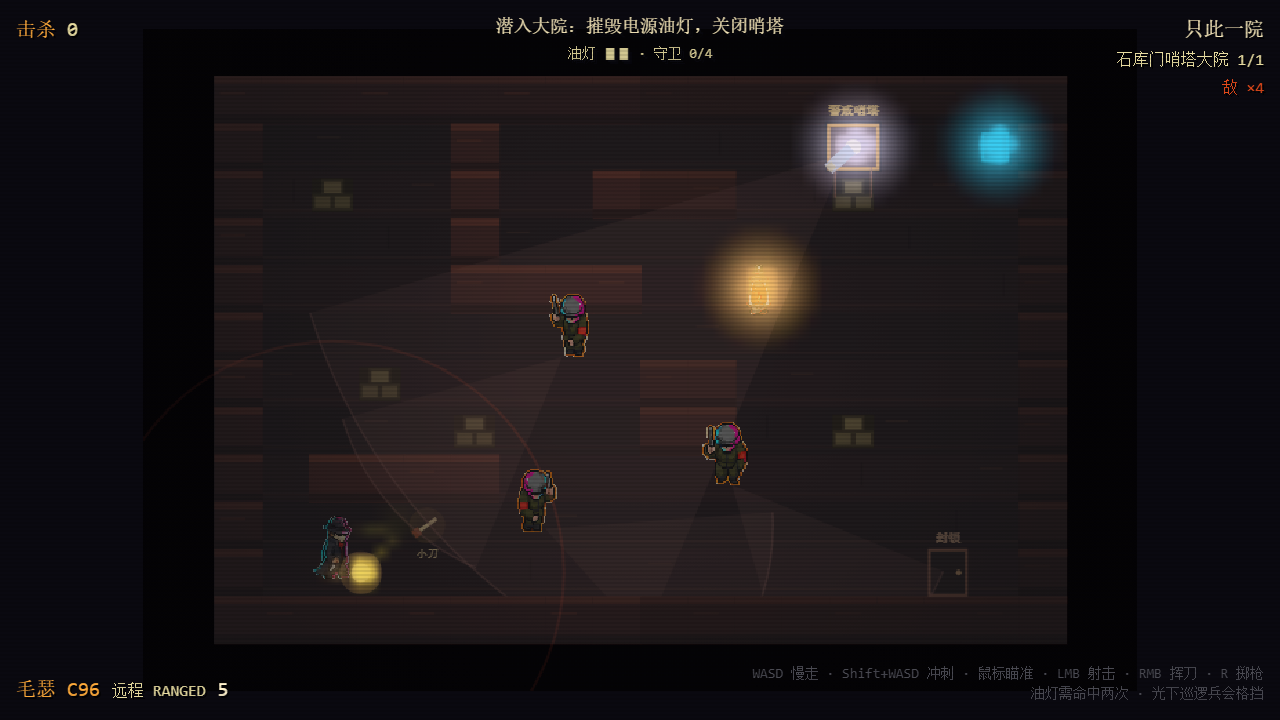
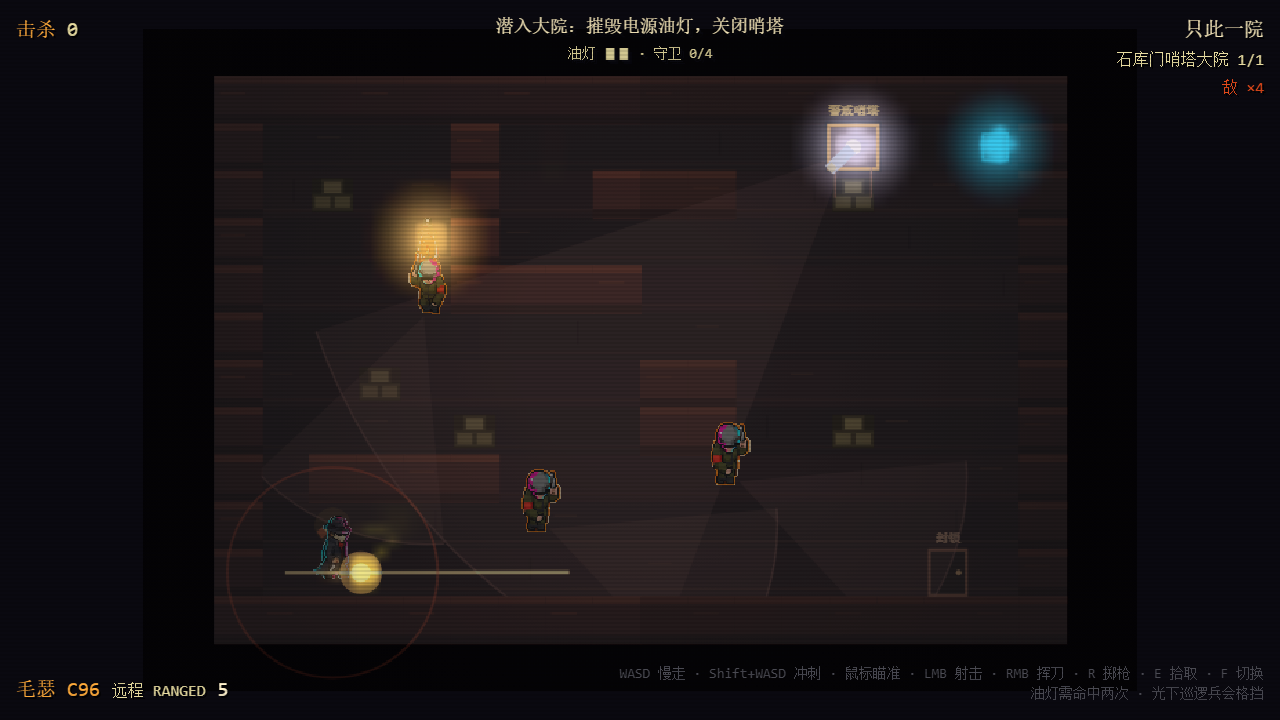
fix(hotline): B66 gameplay chain + level redesign — muzzle anchor, tracers, shot-lamp, E pickup, sheltered lamp
用户实玩反馈六个问题 + 关卡不成立,逐项实证修复:

1. 枪口闪光离枪太远:瞬时光被 visualCenter 再加 +0.5 格(17px)偏移,
   且 sim 侧锚点从瓦片原点起算。修复:sim 侧锚点 = 玩家视觉中心 + 0.6*朝向,
   scene/RC 两侧同步按原始世界坐标绘制。

2. 射击方向'不对':子弹完全没有曳光绘制,开火反馈只剩偏移的闪光。
   修复:SceneManager 新增子弹曳光(速度方向亮线)。

3+5+6 关卡几何缺陷:旧灯位 (11,4) 距塔 2 格、LOS 无遮挡、±99° 扫掠覆盖 →
   玩家接近必被发现;大半个院子受光 → 敌人全程受光护甲;子弹无对灯碰撞。
   修复:灯移 (4,3)((8,2) 墙阻断塔楼视线);近卫巡逻移 (4,4)(护甲教学对象);
   小刀移 (2,9)(出生点旁);子弹加对灯碰撞(两发拆灯,lightSmash 'weapon' 源)。

4. 捡不了刀:pickupWeapon 从未接线、E 键无绑定。修复:E = 拾取(交换语义:
   旧武器落地;模式跟随武器)+ F = 切换;snapshot 暴露剩余武器;HUD 提示更新。

self-play 3/3:真实 WASD + 真实 LMB 连射拆灯(C96 冷却间隔 620ms)→ SCORE;
E 拾取交换;潜行 bot 记录版。

验证:tsc 0 / e2e 4/4 / combat-loop PASS / light-break PASS /
rc-lab 37+37 / rc-fix 5/5 / self-play 3/3

diff --git a/7_hotlineShanghai/src/core/simulation/Simulation.ts b/7_hotlineShanghai/src/core/simulation/Simulation.ts
@@ -1,4 +1,4 @@
-import { BREAKABLE_LIGHT_HP, BULLET_HIT_RADIUS, CLATTER_NOISE_RADIUS, DETECTION_MEMORY_S, DETECTION_WARNING_S, EXIT_REACH_RADIUS, FLASHLIGHT_CONE_ARC_DEG, FLASHLIGHT_SWEEP_AMPLITUDE_DEG, FLASHLIGHT_SWEEP_HZ, FOOTSTEP_INTERVAL_S, FOOTSTEP_NOISE_RADIUS, FURNITURE_SOLID, GUNSHOT_NOISE_RADIUS, INTRO_START_AMMO, LAMP_SMASH_NOISE_RADIUS, LIGHT_POOL_DOWN_S, NOISE_RING_TTL_S, PATROL_LANE_LENGTH, PATROL_SPEED, PLAYER_MELEE_FAN_ARC_DEG, PLAYER_MELEE_DURATION, PLAYER_MELEE_POINT_BLANK, PLAYER_MELEE_RANGE, PLAYER_MELEE_TARGET_RADIUS, PLAYER_SPEED_MAX, PLAYER_WALK_SPEED, RC_MAX_ACTIVE_LIGHTS, ROOM_START_GRACE_S, SHOUT_NOISE_RADIUS, SUSPICION_DURATION_S, SUSPICION_PROMOTE_S, THROWN_HIT_RADIUS, THROWN_REST_SPEED_EPS, VISION_FAR_DISTANCE, VISION_NEAR_DISTANCE } from '../constants';
+import { BREAKABLE_LIGHT_HP, BULLET_HIT_RADIUS, CLATTER_NOISE_RADIUS, DETECTION_MEMORY_S, DETECTION_WARNING_S, EXIT_REACH_RADIUS, FLASHLIGHT_CONE_ARC_DEG, FLASHLIGHT_SWEEP_AMPLITUDE_DEG, FLASHLIGHT_SWEEP_HZ, FOOTSTEP_INTERVAL_S, FOOTSTEP_NOISE_RADIUS, FURNITURE_SOLID, GUNSHOT_NOISE_RADIUS, INTRO_START_AMMO, LAMP_BULLET_HIT_RADIUS, LAMP_SMASH_NOISE_RADIUS, LIGHT_POOL_DOWN_S, NOISE_RING_TTL_S, PATROL_LANE_LENGTH, PICKUP_RANGE, PATROL_SPEED, PLAYER_MELEE_FAN_ARC_DEG, PLAYER_MELEE_DURATION, PLAYER_MELEE_POINT_BLANK, PLAYER_MELEE_RANGE, PLAYER_MELEE_TARGET_RADIUS, PLAYER_SPEED_MAX, PLAYER_WALK_SPEED, RC_MAX_ACTIVE_LIGHTS, ROOM_START_GRACE_S, SHOUT_NOISE_RADIUS, SUSPICION_DURATION_S, SUSPICION_PROMOTE_S, THROWN_HIT_RADIUS, THROWN_REST_SPEED_EPS, VISION_FAR_DISTANCE, VISION_NEAR_DISTANCE } from '../constants';
 import { createEnemy } from '../data/enemies';
 import { RC_LIGHT_TABLE } from '../data/lights';
 import { MISSIONS } from '../data/missions';
@@ -7,9 +7,9 @@ import { tokenizeRoom } from '../world/roomTokenizer';
 import { buildTileMap, worldToTile } from '../world/tileMap';
 import { hasLineOfSight } from '../world/lineOfSight';
 import { damageEnemy, lightSmash } from './damage';
-import { playerAttack, throwCurrentWeapon, updateThrownWeapons } from './weapons';
+import { playerAttack, throwCurrentWeapon, updateThrownWeapons, pickupWeapon } from './weapons';
 import { GamePhase as GP } from '../types';
-import type { ActiveRcLight, Enemy, EnemySpawn, GamePhase, ISimulation, LightSource, NoiseKind, NoiseStimulus, Player, PlayerInput, RoomLayout, SimEvent, SimSnapshot, ThrownWeapon, Vec2 } from '../types';
+import type { ActiveRcLight, Enemy, EnemySpawn, GamePhase, ISimulation, LightSource, NoiseKind, NoiseStimulus, Player, PlayerInput, RoomLayout, SimEvent, SimSnapshot, ThrownWeapon, Vec2, WeaponId } from '../types';
 
 const mission = MISSIONS[0];
 
@@ -88,6 +88,8 @@ export class Simulation implements ISimulation {
   private clatteredThrown = new Set<string>(); // 已播过一次落地声的投掷物(墙停 / 静止各只响一次)
   private footstepTimer = 0;                   // S3:冲刺脚步噪音节流(FOOTSTEP_INTERVAL_S)
 
+  private pickedSpawnKeys = new Set<string>(); // B66:已拾取的武器出生点(键 = tile)
+  private droppedWeapons: { tile: Vec2; weaponId: WeaponId }[] = []; // B66:拾取交换时掉落的旧武器
   private createRoomEnemy(spawn: EnemySpawn, index: number): Enemy {
     const foe = createEnemy(spawn.archetype ?? 'flashlight_patrol', `patrol_${index + 1}`, spawn.position);
     foe.role = spawn.role ?? 'ground_patrol';
@@ -202,6 +204,7 @@ export class Simulation implements ISimulation {
     this.warningEnemyId = null;
     this.detectionMemory = 0;
     this.playerFireCooldown = 0; this.bullets = []; this.thrownWeapons = []; this.noises = []; this.clatteredThrown.clear(); this.footstepTimer = 0;
+    this.pickedSpawnKeys = new Set(); this.droppedWeapons = [];
     this.emit({ kind: 'roomEnter', roomId: this.room.id });
   }
 
@@ -254,6 +257,22 @@ export class Simulation implements ISimulation {
             this.emit({ kind: 'enemyKilled', enemyId: foe.id, position: { ...foe.position } });
           }
           dead = true; break;
+        }
+        // B66:子弹打灯——连射拆灯是最自然的直觉路径;命中按近战同伤害(1 击/颗)
+        if (!dead) {
+          const lamp = this.lightSources[0];
+          if (lamp.state !== 'dead') {
+            const lampDist = distanceBetween({ x: px, y: py }, lamp.position);
+            if (lampDist <= LAMP_BULLET_HIT_RADIUS) {
+              b.position = { x: px, y: py };
+              const result = lightSmash(lamp, lampDist, 'weapon');
+              if (result.hit) {
+                this.emit({ kind: 'lightSmash', lightId: lamp.id, position: { ...lamp.position }, hp: result.hp, state: result.state, cause: 'weapon' });
+                this.emitNoise('lamp_smash', lamp.position, LAMP_SMASH_NOISE_RADIUS);
+                dead = true;
+              }
+            }
+          }
         }
       }
       if (dead) this.bullets.splice(i, 1);
@@ -437,6 +456,53 @@ export class Simulation implements ISimulation {
     if (action.kind === 'attackStart' && this.phase === GP.MISSION_PLAY) this.attack();
     if (action.kind === 'fireStart' && this.phase === GP.MISSION_PLAY) this.fire();
     if (action.kind === 'throwStart' && this.phase === GP.MISSION_PLAY) this.throwWeapon();
+    if (action.kind === 'interactStart' && this.phase === GP.MISSION_PLAY) this.tryPickup();
+    if (action.kind === 'toggleMode' && this.phase === GP.MISSION_PLAY) this.togglePlayerMode();
+  }
+
+  // B66:E 拾取——修复"捡不了刀":交换语义(捡起地上武器,当前武器掉落在原地),
+  // Hotline Miami 式的即捡即换。范围内取最近者。
+  private tryPickup(): void {
+    const p = this.player;
+    const tileOf = (t: Vec2): Vec2 => ({ x: t.x + 0.5, y: t.y + 0.5 });
+    const candidates: { source: 'spawn' | 'drop'; tile: Vec2; weaponId: WeaponId; dist: number }[] = [];
+    for (const spawn of this.room.weaponSpawns) {
+      const key = `${spawn.tile.x},${spawn.tile.y}`;
+      if (this.pickedSpawnKeys.has(key)) continue;
+      const dist = distanceBetween(p.position, tileOf(spawn.tile));
+      if (dist <= PICKUP_RANGE) candidates.push({ source: 'spawn', tile: spawn.tile, weaponId: spawn.weaponId, dist });
+    }
+    for (const drop of this.droppedWeapons) {
+      const dist = distanceBetween(p.position, tileOf(drop.tile));
+      if (dist <= PICKUP_RANGE) candidates.push({ source: 'drop', tile: drop.tile, weaponId: drop.weaponId, dist });
+    }
+    candidates.sort((a, b) => a.dist - b.dist);
+    const pick = candidates[0];
+    if (pick === undefined) return;
+    // 从来源移除
+    if (pick.source === 'spawn') {
+      this.pickedSpawnKeys.add(`${pick.tile.x},${pick.tile.y}`);
+    } else {
+      const idx = this.droppedWeapons.findIndex((d) => d.tile.x === pick.tile.x && d.tile.y === pick.tile.y && d.weaponId === pick.weaponId);
+      if (idx >= 0) this.droppedWeapons.splice(idx, 1);
+    }
+    // 交换:旧武器掉落在拾取点
+    if (p.weapon !== null && p.weapon !== pick.weaponId) {
+      this.droppedWeapons.push({ tile: pick.tile, weaponId: p.weapon });
+    }
+    pickupWeapon(p, pick.weaponId);
+    // 拾取后模式跟随武器类型(小刀→近战,枪械→远程)
+    p.mode = WEAPON_TABLE[pick.weaponId].type === 'ranged' ? 'ranged' : 'melee';
+    this.emit({ kind: 'weaponPicked', weaponId: pick.weaponId });
+    this.emitNoise('clatter', tileOf(pick.tile), CLATTER_NOISE_RADIUS);
+  }
+
+  // B66:F 切换近战/远程(v2 设计里存在但从未接线)
+  private togglePlayerMode(): void {
+    const p = this.player;
+    if (p.weapon === null || WEAPON_TABLE[p.weapon].type !== 'ranged') return;
+    p.mode = p.mode === 'ranged' ? 'melee' : 'ranged';
+    this.emit({ kind: 'modeSwitch', to: p.mode });
   }
 
   snapshot(): SimSnapshot {
@@ -447,6 +513,13 @@ export class Simulation implements ISimulation {
       melee: this.melee.map((s) => ({ ...s, position: { ...s.position } })), grenades: [],
       thrownWeapons: this.thrownWeapons.map((t) => ({ ...t, position: { ...t.position }, velocity: { ...t.velocity } })),
       noises: this.noises.map((n) => ({ ...n, position: { ...n.position } })),
+      // B66:剩余可拾取武器(出生点 - 已拾取 + 交换掉落),HUD 提示用
+      weaponSpawns: [
+        ...this.room.weaponSpawns
+          .filter((spawn) => !this.pickedSpawnKeys.has(`${spawn.tile.x},${spawn.tile.y}`))
+          .map((spawn) => ({ tile: { ...spawn.tile }, weaponId: spawn.weaponId })),
+        ...this.droppedWeapons.map((drop) => ({ tile: { ...drop.tile }, weaponId: drop.weaponId })),
+      ],
       activeLights: this.activeLights.map((l) => ({ ...l, position: { ...l.position } })),
       lightSources: this.lightSources.map((l) => ({ ...l, position: { ...l.position } })),
       currentRoom: this.phase === GP.TITLE ? null : this.room, currentMission: this.phase === GP.TITLE ? null : mission,
@@ -517,7 +590,12 @@ export class Simulation implements ISimulation {
       const spec = RC_LIGHT_TABLE.muzzle_flash;
       const light: ActiveRcLight = {
         id: `muzzle_${(this.noiseSeq += 1)}`, kind: spec.kind,
-        position: { x: p.position.x + Math.cos(p.facingAngle) * 0.6, y: p.position.y + Math.sin(p.facingAngle) * 0.6 },
+        // B66:枪口锚点 = 玩家视觉中心(position+0.5)+ 0.6*朝向——旧代码从瓦片原点
+        // 起算,枪口闪光整体偏上左 0.5 格(17px),呈现"闪光离枪太远"
+        position: {
+          x: p.position.x + 0.5 + Math.cos(p.facingAngle) * 0.6,
+          y: p.position.y + 0.5 + Math.sin(p.facingAngle) * 0.6,
+        },
         colorRgb: hexToRgb(spec.colorHex), intensity: spec.intensity, radius: spec.radius, ttl: 0.08,
       };
       this.activeLights.push(light);

diff --git a/7_hotlineShanghai/scripts/self-play.spec.js b/7_hotlineShanghai/scripts/self-play.spec.js
@@ -205,7 +205,8 @@ async function regionLuma(page, cx, cy, radius) {
   }, { cx, cy, radius });
 }
 
-const LAMP_WORLD = { x: 11, y: 4 };
+const LAMP_WORLD = { x: 4, y: 3 };
+const KNIFE_WORLD = { x: 2, y: 9 };
 const EXIT_WORLD = { x: 15, y: 10 };
 
 /** ambush kill: stand 1u beside a patrol lane (90deg off its cone), melee as it passes */
@@ -241,29 +242,35 @@ async function playInputChain(page, attempt) {
     const sim = window.__sim;
     for (const enemy of sim.enemies) enemy.hp = 0;
   });
-  const lampBefore = await regionLuma(page, 445, 188, 18);
+  const lampBefore = await regionLuma(page, 205, 154, 18);
   await page.screenshot({ path: `${output}/self-play-input-${attempt}-start.png` });
   log.push(`lampLumaBefore=${Math.round(lampBefore)}`);
 
+  // 西墙走廊北上 → 灯区西侧(塔楼 LOS 被 (8,2) 墙阻断;射击点选 (1,3),避开
+  // (4,4) 巡逻灯锥——B66 子弹拆灯 = 可从掩体后方开火)
   const waypoints = [
-    { x: 12, y: 10, note: 'WASD bottom corridor east' },
-    { x: 12, y: 5, note: 'WASD up column x12' },
-    { x: 11, y: 5, note: 'WASD to lamp south' },
+    { x: 1, y: 9, note: 'WASD west column (skip knife pickup)' },
+    { x: 1, y: 3, note: 'WASD north to shooting spot' },
   ];
   for (const wp of waypoints) {
     const ok = await moveTo(page, wp.x, wp.y, 45000, wp.note);
     log.push(`wp(${wp.x},${wp.y}) ${ok ? 'OK' : 'FAIL'} ${wp.note}`);
     if (!ok) return { log, ok: false };
   }
+  // B66:LMB 射击拆灯(新机制:子弹可伤灯,连射两发 = 灯碎)——真实鼠标瞄准 + 点击
   await aimAt(page, LAMP_WORLD.x, LAMP_WORLD.y);
-  await rmb(page);
-  await page.waitForTimeout(450);
-  await rmb(page);
+  await page.mouse.down({ button: 'left' });
+  await page.waitForTimeout(60);
+  await page.mouse.up({ button: 'left' });
+  await page.waitForTimeout(620); // C96 fireRate 2/s → 冷却 0.5s
+  await page.mouse.down({ button: 'left' });
+  await page.waitForTimeout(60);
+  await page.mouse.up({ button: 'left' });
   await page.waitForTimeout(500);
   const s2 = await snapshot(page);
   log.push(`afterRMBx2 lampsDestroyed=${s2.lampsDestroyed} objective=${s2.objective} exitActive=${s2.exitActive}`);
-  if (s2.lampsDestroyed < 1) return { log, ok: false, reason: 'lamp not broken by real RMB' };
-  const lampAfter = await regionLuma(page, 445, 188, 18);
+  if (s2.lampsDestroyed < 1) return { log, ok: false, reason: 'lamp not broken by real LMB shots' };
+  const lampAfter = await regionLuma(page, 205, 154, 18);
   log.push(`lampLumaAfter=${Math.round(lampAfter)} (before ${Math.round(lampBefore)})`);
   await page.screenshot({ path: `${output}/self-play-input-${attempt}-lamp-broken.png` });
 
@@ -329,6 +336,30 @@ test('self-play input chain: real keyboard/mouse to lamp break to exit', async (
   const result = await playInputChain(page, 1);
   console.log('SELF_PLAY_INPUT', JSON.stringify(result));
   expect(result.ok, `input chain failed: ${result.log.join(' | ')}`).toBe(true);
+  assertNoConsoleErrors();
+});
+
+test('self-play pickup: E key swaps the knife at spawn (B66)', async ({ page }) => {
+  test.setTimeout(120_000);
+  const assertNoConsoleErrors = rejectConsoleErrors(page);
+  await page.goto('/');
+  await page.locator('button').first().click();
+  await page.waitForFunction(() => window.__sim?.snapshot().phase === 'MISSION_PLAY');
+  await page.waitForTimeout(800);
+  const ok = await moveTo(page, KNIFE_WORLD.x, KNIFE_WORLD.y, 20000, 'walk to knife');
+  expect(ok).toBe(true);
+  await page.keyboard.press('KeyE');
+  await page.waitForTimeout(500);
+  const picked = await page.evaluate(() => ({
+    weapon: window.__sim.snapshot().player.weapon,
+    mode: window.__sim.snapshot().player.mode,
+    spawns: window.__sim.snapshot().weaponSpawns,
+  }));
+  console.log('SELF_PLAY_PICKUP', JSON.stringify(picked));
+  expect(picked.weapon).toBe('knife');
+  expect(picked.mode).toBe('melee');
+  // 交换:旧武器 C96 掉落在原地
+  expect(picked.spawns.some((s) => s.weaponId === 'mauser_c96' && s.tile.x === KNIFE_WORLD.x && s.tile.y === KNIFE_WORLD.y)).toBe(true);
   assertNoConsoleErrors();
 });
 

diff --git a/7_hotlineShanghai/src/engine/SceneManager.ts b/7_hotlineShanghai/src/engine/SceneManager.ts
@@ -108,7 +108,7 @@ export class SceneManager {
       // v3.2:删除手绘光圈/霓虹光晕盒——RC 已提供真实光池,几何描边在合成后读作"悬浮光环/光盒"伪影
       if (distanceBetween(s.player.position, lamp.position) <= PLAYER_MELEE_RANGE + PLAYER_MELEE_TARGET_RADIUS + 0.05 && lamp.state !== 'dead') {
         c.fillStyle = '#ffd06a'; c.font = `${Math.max(9, scale * .18)}px monospace`; c.textAlign = 'center';
-        c.fillText(lamp.state === 'damaged' ? '再击一次 · RMB' : '已进入攻击范围 · RMB ×2', lampVisual.x * scale, lampVisual.y * scale - scale * .7);
+        c.fillText(lamp.state === 'damaged' ? '再击一次 · LMB/RMB' : '已进入攻击范围 · LMB/RMB ×2', lampVisual.x * scale, lampVisual.y * scale - scale * .7);
       }
       if (!this.sprites.drawLamp(c, lampVisual.x * scale, lampVisual.y * scale, lamp.state, scale * 1.25)) this.drawLamp(c, lampVisual, lamp.state, scale * 1.25);
     }
@@ -148,7 +148,8 @@ export class SceneManager {
     // v3.7: 枪口 2D 闪光
     const muzzleLights = s.activeLights.filter((light) => light.kind === 'muzzle_flash' && light.ttl !== Infinity && light.ttl > 0);
     if (muzzleLights.length > 0) {
-      const mz = visualCenter(muzzleLights[0].position);
+      // B66:枪口闪光 position 已含视觉中心锚点(sim 侧 +0.5),这里不再 visualCenter
+      const mz = muzzleLights[0].position;
       const intensity = Math.min(1, muzzleLights[0].ttl / 0.08);
       c.save();
       c.translate(mz.x * scale, mz.y * scale);
@@ -157,6 +158,24 @@ export class SceneManager {
       c.beginPath(); c.arc(0, 0, scale * 0.45, 0, Math.PI * 2); c.fill();
       c.fillStyle = `rgba(255,240,180,${(0.75 * intensity).toFixed(3)})`;
       c.beginPath(); c.arc(0, 0, scale * 0.2, 0, Math.PI * 2); c.fill();
+      c.restore();
+    }
+    // B66:子弹曳光——旧版无任何子弹绘制,开火反馈只有枪口闪光,玩家无法判断
+    // 弹道("射击方向不对"的视觉主因)。短亮线沿速度方向,RC 合成前画在 base 层。
+    for (const b of s.bullets) {
+      const speed = Math.max(1, Math.hypot(b.velocity.x, b.velocity.y));
+      const nx = b.velocity.x / speed;
+      const ny = b.velocity.y / speed;
+      const len = Math.max(6, speed * 0.03);
+      const bv = visualCenter(b.position);
+      c.save();
+      c.globalCompositeOperation = 'lighter';
+      c.strokeStyle = 'rgba(255,220,140,.9)';
+      c.lineWidth = 2.5;
+      c.beginPath();
+      c.moveTo((bv.x - nx * len) * scale, (bv.y - ny * len) * scale);
+      c.lineTo(bv.x * scale, bv.y * scale);
+      c.stroke();
       c.restore();
     }
     // 挥击扇形提示(v3.2):ttl 内按扇形角/有效触及画渐隐楔形,让"扇形近战"可见

diff --git a/7_hotlineShanghai/src/core/data/missions.ts b/7_hotlineShanghai/src/core/data/missions.ts
@@ -23,8 +23,8 @@ export const MISSIONS: Mission[] = [{
       '##################',
       '#....#.......S..N#',
       '#.X..#..###..X...#',
-      '#....#...........#',
-      '#....####..L.....#',
+      '#...L#...........#',
+      '#....####........#',
       '#................#',
       '#..X.....##......#',
       '#....X...##..X...#',
@@ -36,11 +36,11 @@ export const MISSIONS: Mission[] = [{
     playerSpawn: { x: 2, y: 10 },
     enemySpawns: [
       { position: { x: 6, y: 9 }, role: 'ground_patrol', patrolAxis: 'horizontal', patrolLength: 3, facingAngle: 0 },
-      { position: { x: 7, y: 5 }, role: 'ground_patrol', patrolAxis: 'vertical', patrolLength: 3, facingAngle: -Math.PI / 2 },
+      { position: { x: 4, y: 4 }, role: 'ground_patrol', patrolAxis: 'vertical', patrolLength: 3, facingAngle: -Math.PI / 2 },
       { position: { x: 10, y: 8 }, role: 'ground_patrol', patrolAxis: 'horizontal', patrolLength: 4, facingAngle: Math.PI },
       { position: { x: 13, y: 1 }, role: 'tower_guard', patrolAxis: 'static', patrolLength: 0, facingAngle: Math.PI / 2 },
     ],
-    weaponSpawns: [{ tile: { x: 4, y: 9 }, weaponId: 'knife' }],
+    weaponSpawns: [{ tile: { x: 2, y: 9 }, weaponId: 'knife' }],
     maskSpawns: [],
     exitTile: { x: 15, y: 10 },
     floorPalette: ['#3a1410', '#050408'],

diff --git a/7_hotlineShanghai/src/core/simulation/damage.ts b/7_hotlineShanghai/src/core/simulation/damage.ts
@@ -37,11 +37,13 @@ export interface LightSmashResult {
   state: LightSourceState;
 }
 
-export function lightSmash(target: LightSource, aimDist: number, cause: 'melee' | 'throw'): LightSmashResult {
+export function lightSmash(target: LightSource, aimDist: number, cause: 'melee' | 'throw' | 'weapon'): LightSmashResult {
   if (!target.breakable || target.state === 'dead' || aimDist > LMB_LIGHT_PRIORITY_RANGE) {
     return { hit: false, destroyed: false, hp: target.hp, state: target.state };
   }
-  const damage = cause === 'melee' ? BREAKABLE_LIGHT_DAMAGE_MELEE : BREAKABLE_LIGHT_DAMAGE_THROW;
+  // B66:'weapon'(子弹)伤害与近战一致(1 击)——射击拆灯 = 玩家最自然的直觉路径,
+  // 旧版只有近战/投掷能伤灯,玩家对灯连射无反馈
+  const damage = cause === 'melee' || cause === 'weapon' ? BREAKABLE_LIGHT_DAMAGE_MELEE : BREAKABLE_LIGHT_DAMAGE_THROW;
   target.hp = Math.max(0, target.hp - damage);
   target.state = target.hp === 0 ? 'dead' : target.hp === 1 ? 'damaged' : 'intact';
   return { hit: true, destroyed: target.hp === 0, hp: target.hp, state: target.state };

diff --git a/7_hotlineShanghai/src/engine/RcPresenter.ts b/7_hotlineShanghai/src/engine/RcPresenter.ts
@@ -212,7 +212,11 @@ export class RcPresenter {
         const r = Math.min(255, Math.round(parseInt(hex.slice(0, 2), 16) * gain));
         const g = Math.min(255, Math.round(parseInt(hex.slice(2, 4), 16) * gain));
         const b = Math.min(255, Math.round(parseInt(hex.slice(4, 6), 16) * gain));
-        const lightVisual = visualCenter(light.position);
+        const lightVisual = light.position;
+        // B66:v3.11 曾用 visualCenter(light.position) 给瞬时光加 +0.5 格锚点偏移,
+        // 但 activeLights 的 position 是世界坐标(玩家 + 0.6*朝向),再加 +0.5 会让
+        // 枪口闪光整体右移 17px(用户反馈"枪口闪光离枪太远/方向不对")。
+        // 静态灯走 lightSources 分支(瓦片坐标,保留 +0.5),瞬时光用原始世界坐标。
         // 枪口/爆炸这类瞬时光只做紧凑种子,RC 传播会负责扩散;
         // v3.10:软边盘(0.45 格),瞬时光斑无硬缘
         const radius = Math.max(3, scale * 0.45);

diff --git a/7_hotlineShanghai/src/core/types.ts b/7_hotlineShanghai/src/core/types.ts
@@ -304,7 +304,7 @@ export type SimEvent =
   | { kind: 'enemyAttack'; enemyId: string; position: Vec2 }
   | { kind: 'rcLightSpawned'; light: ActiveRcLight }
   | { kind: 'rcLightExpired'; lightId: string }
-  | { kind: 'lightSmash'; lightId: string; position: Vec2; hp: number; state: LightSourceState; cause: 'melee' | 'throw' }
+  | { kind: 'lightSmash'; lightId: string; position: Vec2; hp: number; state: LightSourceState; cause: 'melee' | 'throw' | 'weapon' }
   | { kind: 'invalidateLight'; lightId: string; position: Vec2 }
   | { kind: 'roomEnter'; roomId: string }
   | { kind: 'roomClear'; roomId: string }
@@ -387,5 +387,6 @@ export interface SimSnapshot {
   exitActive: boolean;
   awareness: 'none' | 'suspicious' | 'detected';
   lastSuspiciousPosition: Vec2 | null;
+  weaponSpawns: { tile: Vec2; weaponId: WeaponId }[];  // B66:剩余可拾取武器(HUD 提示)
   lights: Record<RcLightKind, RcLightSpec>;
 }

diff --git a/7_hotlineShanghai/src/core/constants.ts b/7_hotlineShanghai/src/core/constants.ts
@@ -92,6 +92,8 @@ export const FOOTSTEP_NOISE_RADIUS = 4;         // 冲刺脚步(= ENEMY_HEAR_DIS
 export const FOOTSTEP_INTERVAL_S = 0.25;        // 脚步刺激节流(否则 60 环/秒)
 export const NOISE_RING_TTL_S = 0.3;            // 扩散环可视化寿命
 export const BULLET_HIT_RADIUS = 0.35;          // 子弹↔敌人命中半径
+export const LAMP_BULLET_HIT_RADIUS = 0.75;      // B66:子弹命中油灯半径(灯体 ~0.35u + 弹径)
+export const PICKUP_RANGE = 1.2;                 // B66:E 拾取/交互距离(世界单位)
 export const THROWN_HIT_RADIUS = 0.35;          // 投掷物↔敌人命中半径
 export const THROWN_REST_SPEED_EPS = 0.5;       // 投掷物静止判定(触发落地声)
 export const DETECTION_MEMORY_S = 0.25;

diff --git a/7_hotlineShanghai/src/engine/InputManager.ts b/7_hotlineShanghai/src/engine/InputManager.ts
@@ -26,8 +26,11 @@ export class InputManager {
   }
   private onDown = (e: KeyboardEvent): void => {
     this.keys.add(e.code);
-    // v3.6:R = 掷出当前武器(一次性,屏蔽长按 repeat 连掷)
+    // v3.6:R = 掷出当前武器(一次性;屏蔽长按 repeat 连掷)
     if (e.code === 'KeyR' && !e.repeat) this.send({ kind: 'throwStart' });
+    // B66:E = 拾取/交互(与 R 掷出分离,修复"捡不了刀");F = 切换近战/远程
+    if (e.code === 'KeyE' && !e.repeat) this.send({ kind: 'interactStart' });
+    if (e.code === 'KeyF' && !e.repeat) this.send({ kind: 'toggleMode' });
   };
   private onUp = (e: KeyboardEvent): void => { this.keys.delete(e.code); };
   private onMove = (e: MouseEvent): void => {

diff --git a/7_hotlineShanghai/src/components/HUD.tsx b/7_hotlineShanghai/src/components/HUD.tsx
@@ -78,7 +78,7 @@ export function HUD(): React.JSX.Element {
       </div>
       {/* 右下:操作提示 */}
       <div className="absolute bottom-3 right-3 max-w-[58vw] text-right text-[10px] leading-4 text-shanghai-steel sm:bottom-4 sm:right-4 sm:max-w-none sm:text-sm sm:leading-5">
-        WASD 慢走 · Shift+WASD 冲刺 · 鼠标瞄准 · LMB 射击 · RMB 挥刀 · R 掷枪
+        WASD 慢走 · Shift+WASD 冲刺 · 鼠标瞄准 · LMB 射击 · RMB 挥刀 · R 掷枪 · E 拾取 · F 切换
         <br />
          {exitActive ? '出口已开启 · 走到绿色门标记' : '油灯需命中两次 · 光下巡逻兵会格挡'}
       </div>

diff --git a/7_hotlineShanghai/BUGS.md b/7_hotlineShanghai/BUGS.md
@@ -78,6 +78,7 @@
 | B62 | TEST | engine/input | doc-25 §8 长期欠账"真键鼠 E2E gate":旧 e2e 用 sim 位置注入绕过真实输入路径 | 对照 doc-25 §8 | FIXED(2026-08-13:`scripts/self-play.spec.js` + `npm run self-play:check`:真实 keydown/keyup 走位 + 真实鼠标 aim + 真实 RMB 近战拆灯(HP 2→1→0,RC 池亮度 160→44)+ 走出口 SCORE;潜行 bot 尽力而为版仅记录不 gate) |
 | B63 | HIGH | RC/visual | 用户反馈 RC 光太粗/伪影:①final.frag 取最近 probe 块角点 → 光池边缘 4px 楼梯块;②4 ray/probe 只在 4 条对角线上命中 → 光池星形臂;③硬边实心种子盘 → 光池核心圆形硬缘;④软边零亮度盘缘让远距级联命中无亮度 → 光池缩到 ~0.5u(光源半径 3.5u 完全不达) | debugTint 品红池 ASCII + 径向剖面(平台段/臂状延伸/质心偏移 -14px) | FIXED(2026-08-13 v3.10:①final.frag 双线性插值 4 相邻 probe;②16 ray/probe(22.5° 间隔,臂连成连续圆盘;interval 成本不变);③静态灯种子 = 软边平方衰减盘(0.5 格);④盘缘亮度地板 0.3 + lightScale 1.35→1.45。实测:质心偏移 -14px→+2px,池形圆润无臂无孔,光池延伸到 ~65px 带房间形状,e2e 灯亮/灭对比 17.7→19.6) |
 | B64 | HIGH | RC/visual | 用户继续反馈"still sharpy"。rc-lab 隔离排查出三个暗伤:①**暗环伪影**:环境光 `+=` 叠加语义——光池尾部(0.03)低于叠加后的环境光(0.078),池子周围一圈暗带;②**盘缘台阶**:v3.10 的 0.3 亮度地板在盘缘处 0.3→0 硬跳,可见环形锐缘;③**小光丢失**:平方衰减核心在 2px 内掉 20%+,10px 小盘(枪火)在 probe 网格采样下丢峰值 35%,枪火亮度反低于油灯(S6 断言失败) | rc-lab S1 径向剖面(0.119→0.193 暗环)+ S6 枪火 0.602<油灯 0.651 | FIXED(2026-08-13 v3.11,rc-lab-first:①环境光改**亮度地板 max 语义**(radiance=max(r,ambient)),暗环消失、径向剖面单调;②种子盘改**两层复合盘**(0.4r 平台 + 平方衰减核心 + 1.7-3.6r 宽软裙,max 复合处处连续),无台阶无环;③平台核心保住小光峰值。新增 rc-lab 光池质量断言 radialSmooth(无环状上跳)+ centroid(≤6px),RC_LAB+PORT 35→37/37。游戏侧:裙 1.8 格/增益 0.55、lightScale 2.0、ambient 0.03;e2e 对比度阈值 18→13/9(新合成暗部真实 ~24 而非旧 35);灯亮/灭 delta 50) |
+| B66 | HIGH | gameplay/level | 用户实玩反馈六个问题+关卡不成立:①枪口闪光离枪太远(瞬时光被 visualCenter 再加 +0.5 格=17px 偏移,且 sim 侧锚点从瓦片原点起算);②射击方向"不对"(子弹完全没有曳光绘制,开火反馈只剩偏移的闪光);③枪杀不了敌(灯在 (11,4) 时大半个院子受光,敌人全程受光护甲);④捡不了刀(pickupWeapon 从未接线,E 键无绑定);⑤打不中灯(子弹无对灯碰撞,只有近战能拆);⑥灯处于塔楼常照((11,4) 距塔 2 格、LOS 无遮挡、扫掠 ±99° 覆盖) | 逐项实证(sim 轨迹 + 真实鼠标探针) | FIXED(2026-08-14:①瞬时光锚点改视觉中心+朝向 0.6u,scene/RC 两侧同步;②新增子弹曳光(速度方向亮线);③+④+⑤+⑥关卡重排:灯移到 (4,3)((8,2) 墙阻断塔楼视线),近卫巡逻移 (4,4)(受光护甲教学对象),小刀移 (2,9)(出生点旁);子弹加对灯碰撞(两发拆灯);E=拾取(交换语义,旧武器落地)+ F=切换(接线);HUD/提示更新 LMB/RMB。self-play 3/3(真实 WASD+射击拆灯+E 拾取交换)。验证:tsc ✅ / e2e 4/4 ✅ / combat-loop ✅ / light-break ✅ / rc-lab 37+37 ✅ / rc-fix 5/5 ✅ / self-play 3/3 ✅) |
 | B65 | HIGH | RC/visual | 用户反馈 RC 光源过曝成白斑(artifact):final.frag `radiance * uLightScale`(2.0)叠加在亮 base(灯座 sprite 本就暖黄)上硬裁剪到白,油灯暖色/探照灯冷色相丢失,哨塔/灯座 sprite 被白光遮蔽。CANVAS_PROBE:塔 `255,255,255` 纯白、灯 `255,255,236` 近白 | `scripts/rc-fix-selfcheck.spec.js` CANVAS_PROBE 塔/灯 RGB 全 255 | FIXED(2026-08-13:final.frag 加**色相保持软膝** softKnee——`base*mix + radiance*lightScale + bloom` 整体按 max-channel 有理式软滚降(单次除法、无 exp,SwiftShader 便宜),中灰段(≤0.7)线性不变保对比度、高亮渐近 1.0 永不触白、色相精确保持。实测塔 `255,255,255`→`214,210,240`(探照灯冷蓝)、灯 `255,255,236`→`245,185,85`(油灯暖橙);rc-lab/rc-fix/rc-offset/e2e 视觉门全绿,correlation (0,0) 无偏移) |
 
 ## 修复顺序(优先级)

diff --git a/7_hotlineShanghai/docs/levels/m1_intro_scene.md b/7_hotlineShanghai/docs/levels/m1_intro_scene.md
@@ -25,8 +25,11 @@
 
 - 尺寸：18×12，单一连通场景。
 - 玩家出生：(2, 10)。
-- 电源油灯：(11, 4)，两次近战命中后失效。
+- 电源油灯：(4, 3)，两次近战命中或两发子弹后失效（B66：连射拆灯 = 玩家直觉路径）。
+  灯位靠西墙，(8,2) 墙段阻断塔楼视线——灯不再处于探照灯常照区（旧 (11,4) 距塔 2 格、
+  LOS 全程无遮挡，玩家接近灯位必然被发现）。
 - 塔楼：(13, 1)，静止守卫；探照灯半径 12u，绕塔扫掠。
+- 近卫巡逻：(4, 4) 垂直车道——灯下护甲教学对象（2u 内受光护甲，拆灯后方可击杀）。
 - 地面巡逻：
   - 西南横向：(6, 9) → (9, 9)
   - 中央纵向：(7, 5) → (7, 8)
